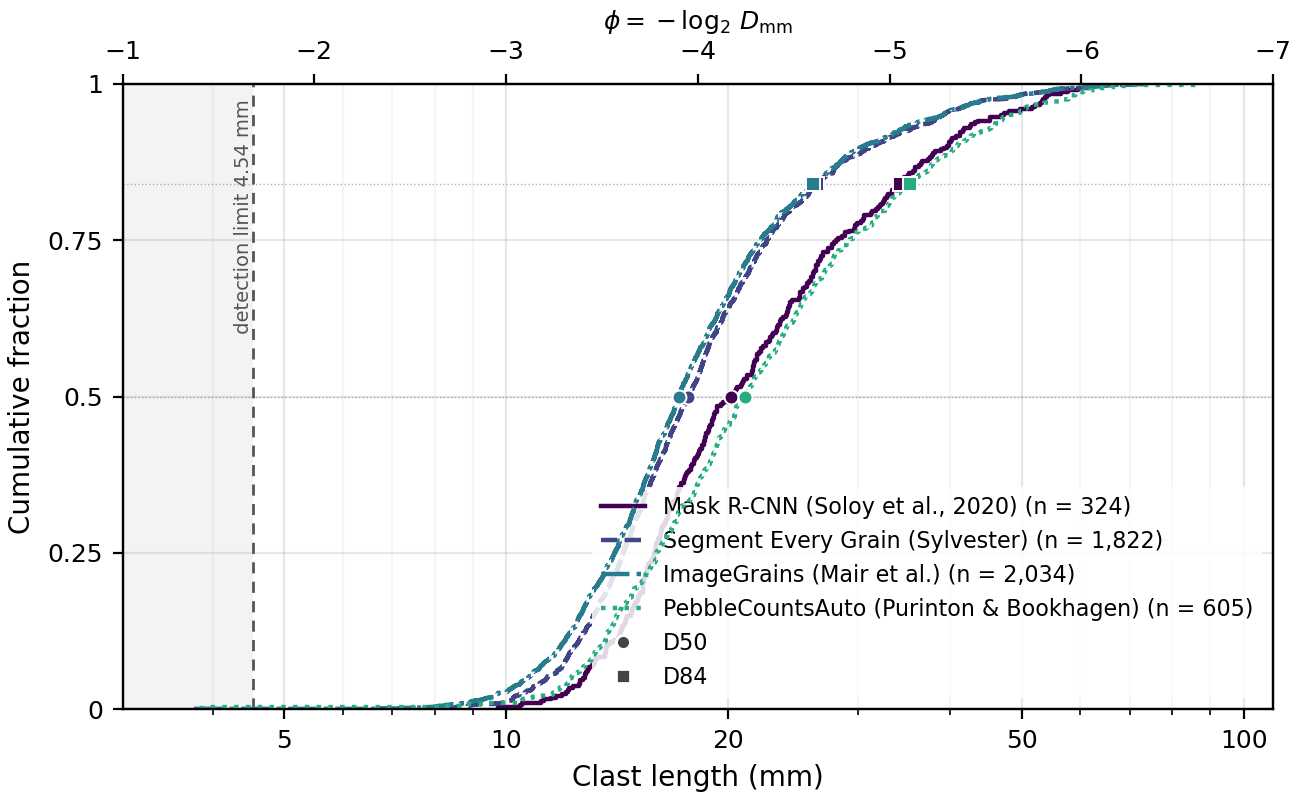
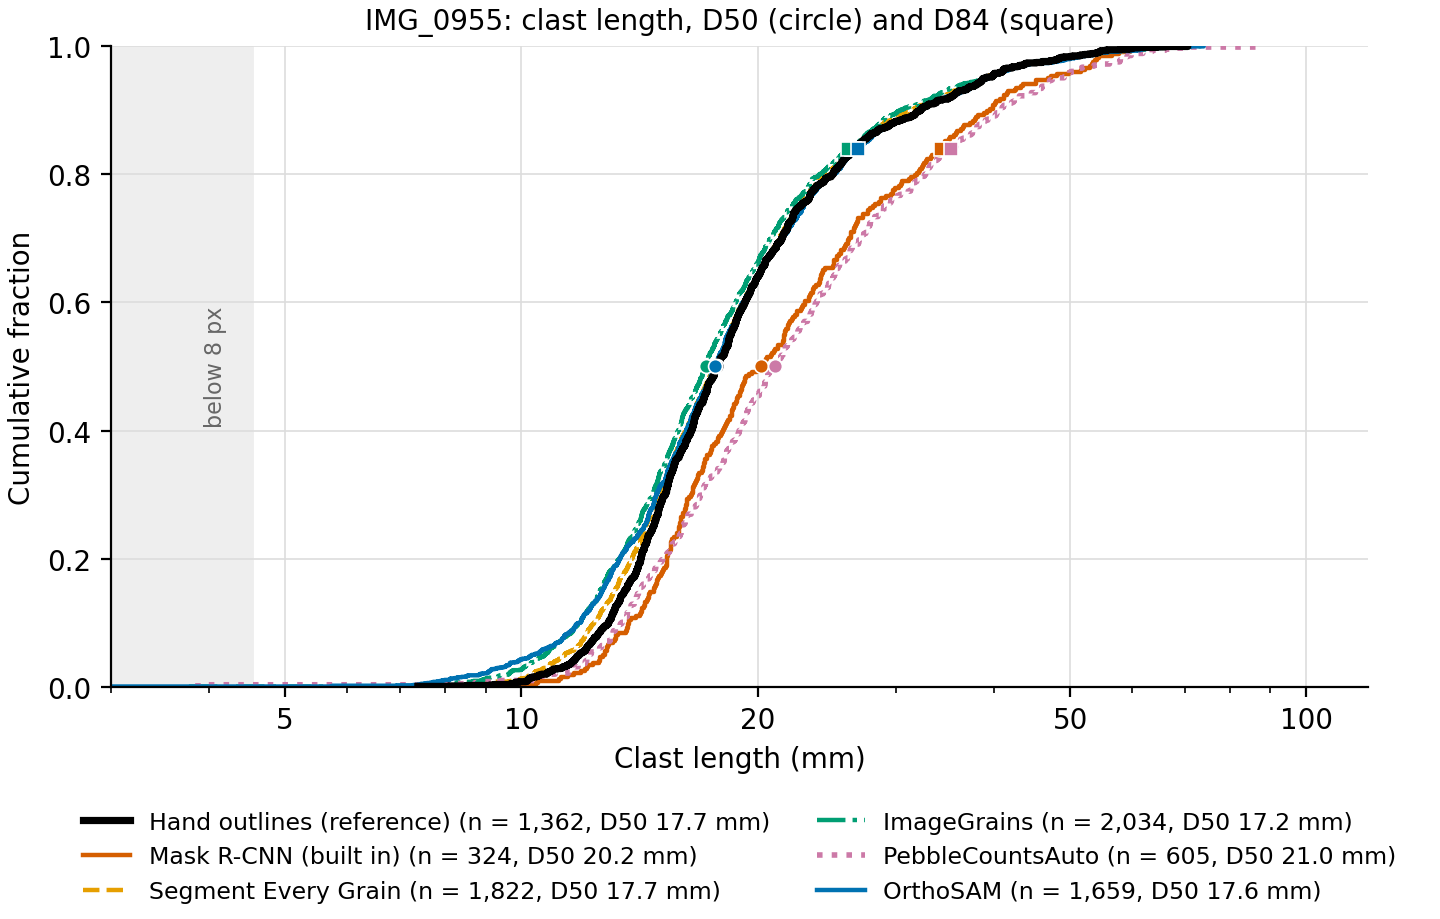
Five-model comparison: true positives, recall, precision and F1; figures on common size classes

diff --git a/README.md b/README.md
@@ -122,34 +122,46 @@ Also cite SAM 2 (Ravi et al., 2024).
 
 ## The same photograph through every model
 
-The figures below show the same rectified quadrat photograph (`example_03_Etretat`,
-IMG_0955: 0.84 m frame, 0.567 mm/px) run through every model PebbleMapper can run, with
-the frame band left out and each clast measured by PebbleMapper's own step.
+The rectified quadrat photograph of PebbleMapper's `example_03_Etretat` (IMG_0955: 0.84 m
+frame, 0.567 mm/px, a densely packed flint beach, 1,362 surface clasts outlined by hand)
+was run through every model PebbleMapper can use, with the frame band left out and each
+clast measured by PebbleMapper's own step.
 
-| Model | Detections | Hand-outlined clasts found | Detections that match one | Length RMSE | D50 | D84 | Time per photograph |
-|---|---|---|---|---|---|---|---|
-| Hand outlines | 1,362 | | | | 17.7 mm | 26.5 mm | |
-| Mask R-CNN (PebbleMapper, built in) | 324 | 320 (24 %) | 99 % | 1.6 mm | 20.2 mm | 34.2 mm | 41 s (GPU) |
-| Segment Every Grain | 1,822 | 1,350 (99 %) | 74 % | 1.0 mm | 17.7 mm | 26.3 mm | 259 s (GPU) |
-| ImageGrains | 2,034 | 1,316 (97 %) | 65 % | 1.7 mm | 17.2 mm | 26.0 mm | 51 s (CPU) |
-| PebbleCountsAuto | 605 | 491 (36 %) | 81 % | 4.1 mm | 21.0 mm | 35.3 mm | 17 s (CPU) |
+| Model | Detections | True positives | Recall | Precision | F1 | Length RMSE | D50 | D84 | Time per photograph |
+|---|---|---|---|---|---|---|---|---|---|
+| Hand outlines (reference) | 1,362 | | | | | | 17.7 mm | 26.5 mm | |
+| Mask R-CNN (PebbleMapper, built in) | 324 | 320 | 0.23 | 0.99 | 0.38 | 1.6 mm | 20.2 mm | 34.2 mm | 41 s (GPU) |
+| Segment Every Grain | 1,822 | 1,350 | 0.99 | 0.74 | 0.85 | 1.0 mm | 17.7 mm | 26.3 mm | 259 s (GPU) |
+| ImageGrains | 2,034 | 1,316 | 0.97 | 0.65 | 0.78 | 1.7 mm | 17.2 mm | 26.0 mm | 51 s (CPU) |
+| PebbleCountsAuto | 605 | 491 | 0.36 | 0.81 | 0.50 | 4.1 mm | 21.0 mm | 35.3 mm | 17 s (CPU) |
+| OrthoSAM | 1,659 | 1,079 | 0.79 | 0.65 | 0.71 | 1.4 mm | 17.6 mm | 26.8 mm | 430 s (GPU) |
 
-Detections are paired with the 1,362 hand-outlined clasts by position and size, as PebbleMapper's
-Validate tab does. The hand outlines started from Segment Every Grain's detections, which favours
-that model here. Times are for one photograph once the model is loaded (loading adds 20 to 70 s
-once per run), on a 2018 laptop (Intel Core i7-8850H, NVIDIA Quadro P600 with 4 GB).
+Detections are paired with the 1,362 hand-outlined clasts by position and size, as
+PebbleMapper's Validate tab does. A true positive is a detection paired with a
+hand-outlined clast; recall is true positives over the 1,362 hand-outlined clasts,
+precision is true positives over the detections, and F1 is their harmonic mean. False
+negatives (1,362 minus true positives) and false positives (detections minus true
+positives) follow from the table. Length RMSE is computed on the true positives.
+
+The hand outlines leave out many of the smallest grains between the larger clasts, so a
+detection with no hand-outlined partner is not necessarily wrong, and precision is a
+lower bound. The hand outlines started from Segment Every Grain's detections, which
+favours that model here. Times are for one photograph once the model is loaded (loading
+adds 20 to 70 s once per run), on a 2018 laptop (Intel Core i7-8850H, NVIDIA Quadro P600
+with 4 GB). ImageGrains' environment installs the processor build of PyTorch, and
+PebbleCountsAuto has no GPU code.
 
 <p align="center">
-  <img src="docs/figures/same-photo-seg.jpg" alt="The example quadrat through this model" width="70%"/>
+  <img src="docs/figures/same-photo-seg.jpg" alt="The example quadrat through Segment Every Grain" width="70%"/>
 </p>
-<p align="center"><em>This model's detections on the example quadrat: each clast filled and outlined, its long and short axes drawn.</em></p>
+<p align="center"><em>Segment Every Grain's detections on the whole photograph, each clast filled by size class and outlined, its long and short axes drawn.</em></p>
 
 <p align="center">
-  <img src="docs/figures/same-photo-all-models.jpg" alt="The example quadrat through the four models" width="100%"/>
+  <img src="docs/figures/same-photo-all-models.jpg" alt="A 40 cm crop of the example quadrat: the hand outlines and the five models" width="100%"/>
 </p>
-<p align="center"><em>The four models side by side on the same photograph.</em></p>
+<p align="center"><em>A 40 cm crop of the same photograph: the hand outlines and each model's detections, on the same size classes in every panel.</em></p>
 
 <p align="center">
-  <img src="docs/figures/same-photo-cdf.png" alt="Cumulative size distributions of the four models" width="70%"/>
+  <img src="docs/figures/same-photo-cdf.png" alt="Cumulative size distributions of the hand outlines and the five models" width="70%"/>
 </p>
-<p align="center"><em>Cumulative distributions of clast length, D50 (circle) and D84 (square) marked; the grey band is the 8-pixel detection limit of this photograph.</em></p>
+<p align="center"><em>Cumulative distributions of clast length, D50 (circle) and D84 (square) marked; the grey band is below 8 pixels, the detection limit of this photograph.</em></p>
